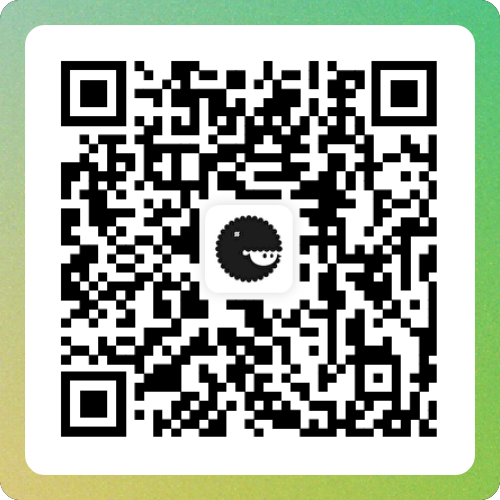
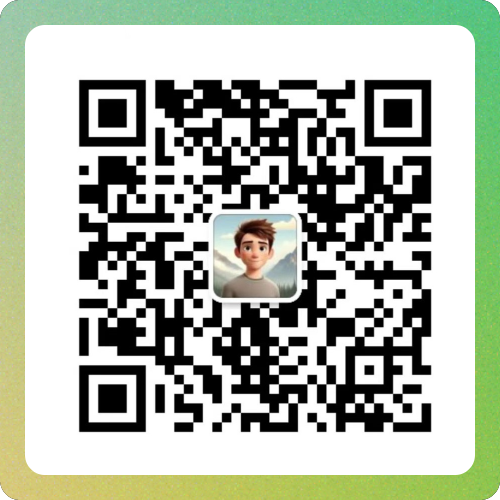
update

diff --git a/README.md b/README.md
@@ -9,9 +9,9 @@ If you are interested in my work or have any collaborative intentions, please fe
 
 Email: [jaaronkot@gmail.com](mailto:jaaronkot@gmail.com)
 
-WeChat: jaaronkot
+WeChat: 
 <p align="center">
-    <img src="assets/wechat.png" alt="wechat" width="150px"/>
+    <img src="assets/wechat.png" alt="wechat" width="120px"/>
 </p>
 
  I look forward to communicating with you!
